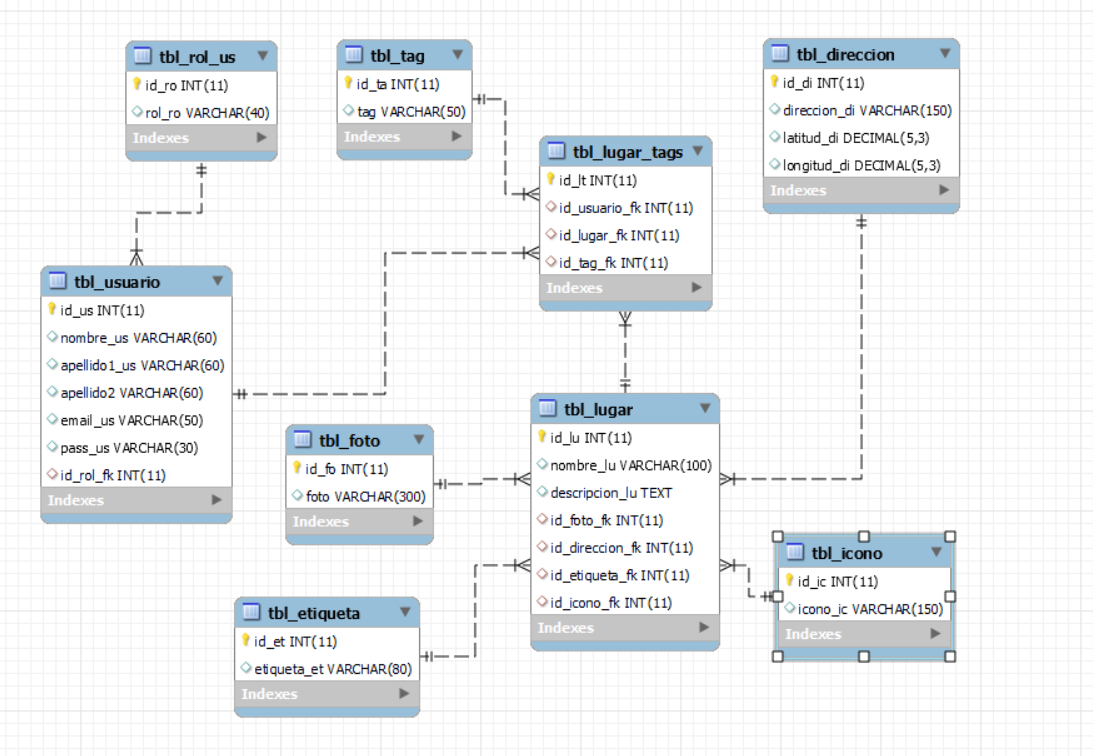
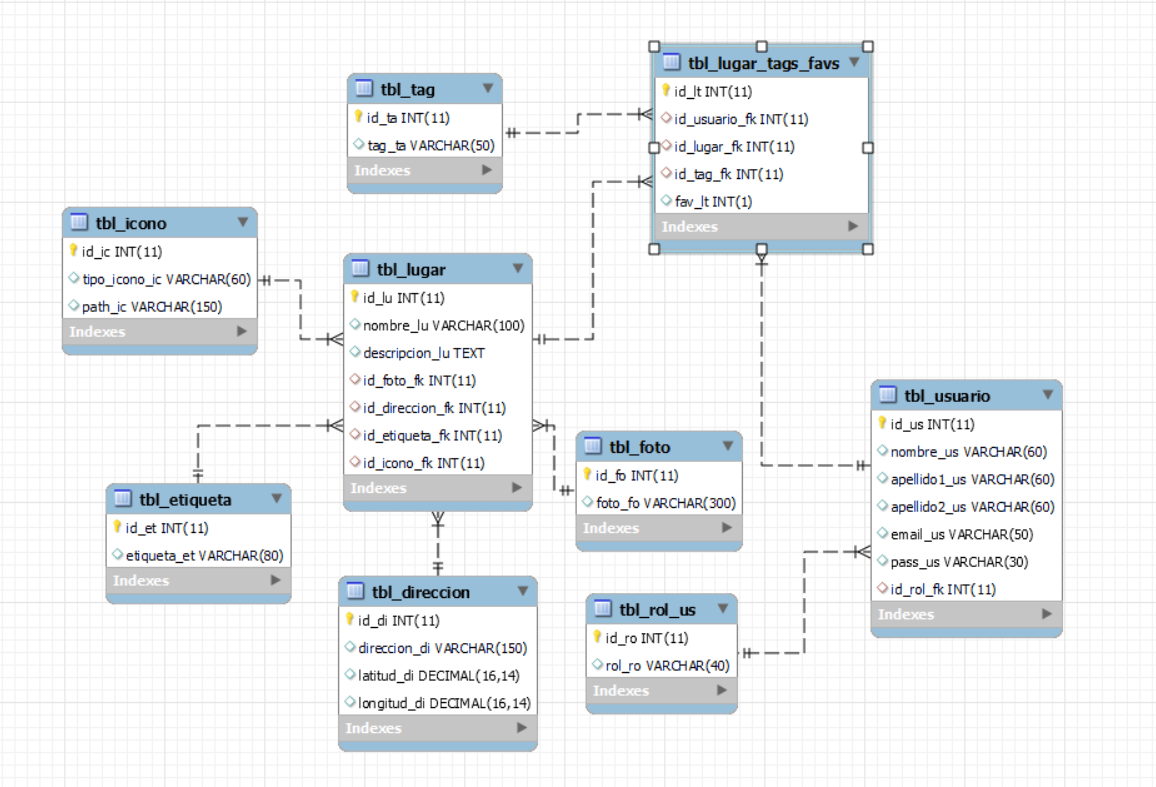
DB changes

diff --git a/app/Http/Controllers/MapController.php b/app/Http/Controllers/MapController.php
@@ -19,13 +19,20 @@ class MapController extends Controller
        try {
             $dbEtiquetas = DB::table('tbl_etiqueta')->select('*')->get();
             //Para saber los lugares favoritos del usuario, añadir el where
-            $dbFavs = DB::table('tbl_lugar_tags')
-                ->join('tbl_usuario', 'tbl_lugar_tags.id_usuario_fk', '=', 'tbl_usuario.id_us')
-                ->join('tbl_lugar', 'tbl_lugar_tags.id_lugar_fk', '=', 'tbl_lugar.id_lu')
+            $dbFavs = DB::table('tbl_lugar_tags_favs')
+                ->join('tbl_usuario', 'tbl_lugar_tags_favs.id_usuario_fk', '=', 'tbl_usuario.id_us')
+                ->join('tbl_lugar', 'tbl_lugar_tags_favs.id_lugar_fk', '=', 'tbl_lugar.id_lu')
                 ->select('tbl_lugar.*')
-                ->where('tbl_usuario.id_us','=', '2')
+                ->where('tbl_usuario.id_us','=', '1')
                 ->get();
-            return view('map', compact(/* 'dbLugar' */'dbEtiquetas', 'dbFavs'));
+            $dbTags = DB::table('tbl_lugar_tags_favs')
+                ->join('tbl_usuario', 'tbl_lugar_tags_favs.id_usuario_fk', '=', 'tbl_usuario.id_us')
+                ->join('tbl_lugar', 'tbl_lugar_tags_favs.id_lugar_fk', '=', 'tbl_lugar.id_lu')
+                ->join('tbl_tag', 'tbl_lugar_tags_favs.id_tag_fk', '=', 'tbl_tag.id_ta')
+                ->select('*')
+                ->where('tbl_usuario.id_us','=', '1')
+                ->get();
+            return view('map', compact('dbEtiquetas', 'dbFavs', 'dbTags'));
        } catch (\Throwable $e) {
             return $e->getMessage();
        }
@@ -44,10 +51,25 @@ class MapController extends Controller
         return response()->json($dbLugar);
     }
 
-    public function etiquetas($id){
+    public function filtro(){
+        /* SELECT tbl_etiqueta.etiqueta_et, tbl_tag.tag_ta, tbl_lugar_tags_favs.fav_lt 
+        FROM tbl_lugar_tags_favs 
+        INNER JOIN tbl_usuario ON tbl_lugar_tags_favs.id_usuario_fk = tbl_usuario.id_us 
+        INNER JOIN tbl_tag ON tbl_lugar_tags_favs.id_tag_fk = tbl_tag.id_ta 
+        INNER JOIN tbl_lugar ON tbl_lugar_tags_favs.id_lugar_fk = tbl_lugar.id_lu 
+        INNER JOIN tbl_etiqueta ON tbl_lugar.id_etiqueta_fk = tbl_lugar.id_lu 
+        WHERE tbl_etiqueta.id_et LIKE '%4%' AND tbl_tag.id_ta LIKE '%%' AND tbl_lugar_tags_favs.fav_lt LIKE '%%'; */
+
         try {
-            $dbExtractEtiquetas = "";
-            return response()->json(array('resultado'=> 'OK'));
+            $dbFiltro = DB::table('tbl_lugar_tags_favs')
+                ->join('tbl_usuario', 'tbl_lugar_tags_favs.id_usuario_fk', '=', 'tbl_usuario.id_us')
+                ->join('tbl_tag', 'tbl_lugar_tags_favs.id_tag_fk', '=', 'tbl_tag.id_ta')
+                ->join('tbl_lugar', 'tbl_lugar_tags_favs.id_lugar_fk', '=', 'tbl_lugar.id_lu')
+                ->join('tbl_etiqueta', 'tbl_lugar.id_etiqueta_fk', '=', 'tbl_lugar.id_lu')
+                //->where('tbl_etiqueta.id_et', 'LIKE', '"%%"', )
+                ->select()
+                ->get();
+            return response()->json($dbFiltro);
         } catch (\Throwable $e) {
             return response()->json(array('resultado'=> 'NOK: '.$e->getMessage()));
         }

diff --git a/resources/views/map.blade.php b/resources/views/map.blade.php
@@ -30,8 +30,8 @@
                 <label for="Etiquetas">Mis etiquetas: </label>
                 <select class="nombre_lu" name="nombre_lu" onchange="favoritos()">
                     <option value=""></option>
-                    @foreach ($dbFavs as $item)
-                        <option value="{{$item->id_lu}}">{{$item->nombre_lu}}</option>
+                    @foreach ($dbTags as $item)
+                        <option value="{{$item->id_ta}}">{{$item->tag_ta}}</option>
                     @endforeach
                 </select>
         </form>

diff --git a/routes/web.php b/routes/web.php
@@ -23,5 +23,5 @@ Route::get('map', [MapController::class, 'index']);
 //Obtenemos todos los marcadores en el mapa
 Route::post('markets', [MapController::class, 'montarMarkets']);
 //Vista filtrando por etiquetas
-Route::post('etiquetas/{id}', [MapController::class, 'etiquetas']);
+Route::post('filtro/{id}', [MapController::class, 'etiquetas']);
 //Vista filtrando por favoritos
